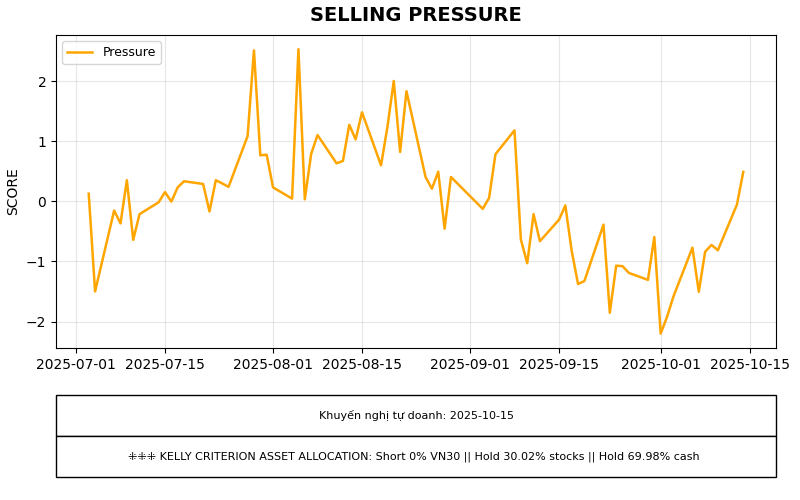
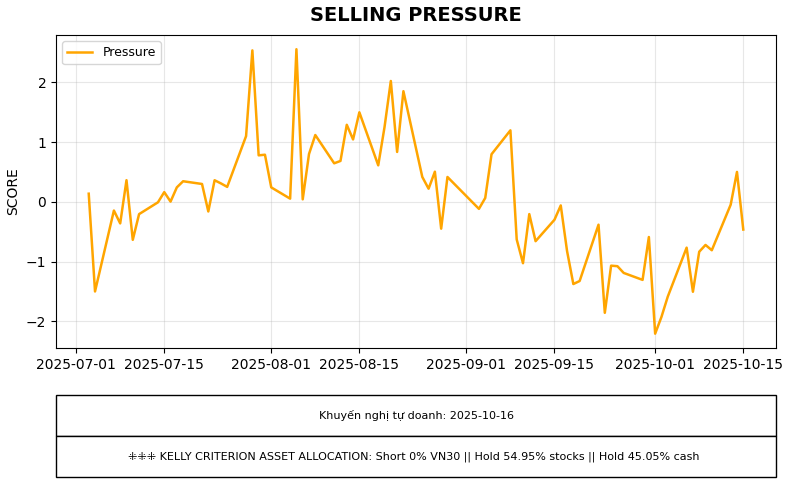
16-10

diff --git a/backtesting/strategy.py b/backtesting/strategy.py
@@ -1,0 +1,92 @@
+# import pandas as pd
+# import numpy as np
+# from get_data import get_symbol_data, calculate_drawdown, portfolio_returns, sharpe_ratio, calculate_volatility
+# import matplotlib.pyplot as plt
+
+# start_date = "2022-07-03"
+# end_date = "2025-10-01"
+
+# def moving_average(data, window_size):
+#     return pd.Series(data).rolling(window=window_size).mean()
+
+# vnindex = get_symbol_data("VNINDEX", start_date, end_date)["VNINDEX"]
+# ma_50 = moving_average(vnindex, 50)
+# spread = vnindex - ma_50
+# z_score = (spread - spread.mean()) / spread.std()
+# max_zscore = z_score.max()
+# min_zscore = z_score.min()
+# new_zscore = (z_score - min_zscore)
+# new_min = new_zscore.min()
+# new_max = new_zscore.max()
+# cash_allocation = (new_zscore / new_max)
+# asset_allocation = (1 - cash_allocation)
+# # cash
+# # # # a = vnindex["VNINDEX"]
+# # # # b, max_dd = calculate_drawdown(a)
+# # # print(vnindex)
+# # # print(ma_50)
+# # print(spread)
+# # print(z_score)
+
+# # Plot
+# plt.figure(figsize=(10, 5))
+# plt.plot(asset_allocation, marker='o', linestyle='-', linewidth=1.5)
+# plt.title('VNINDEX Series Over Time')
+# plt.xlabel('Index')
+# plt.ylabel('Value')
+# plt.grid(True)
+# plt.show()
+# # print(b)
+
+import pandas as pd
+import numpy as np
+from get_data import get_symbol_data
+import matplotlib.pyplot as plt
+
+start_date = "2022-07-03"
+end_date = "2025-10-01"
+
+def moving_average(data, window_size):
+    return pd.Series(data).rolling(window=window_size).mean()
+
+# === Data ===
+vnindex_df = get_symbol_data("VNINDEX", start_date, end_date)
+vnindex = get_symbol_data("VNINDEX", start_date, end_date)["VNINDEX"]
+ma_50 = moving_average(vnindex, 50)
+
+spread = vnindex - ma_50
+z_score = (spread - spread.mean()) / spread.std()
+
+vnindex_df["sign"] = spread.apply(lambda x: 1 if x > 0 else (-1 if x < 0 else 0))
+vnindex_df["cross"] = vnindex_df["sign"].diff().fillna(0).ne(0)
+cross_point = vnindex_df[vnindex_df["cross"]]
+# Normalization for allocation
+max_zscore = z_score.max()
+min_zscore = z_score.min()
+new_zscore = z_score - min_zscore
+cash_allocation = new_zscore / new_zscore.max()
+asset_allocation = 1 - cash_allocation
+
+print(vnindex_df)
+print(cross_point)
+# # === Plot ===
+# fig, axes = plt.subplots(2, 1, figsize=(12, 8), sharex=True)
+
+# # Top chart: VNINDEX + MA50
+# axes[0].plot(vnindex.index, vnindex, label='VNINDEX', color='blue', linewidth=1.5)
+# axes[0].plot(ma_50.index, ma_50, label='MA 50', color='orange', linestyle='--', linewidth=1.2)
+# axes[0].set_title('VNINDEX vs 50-day Moving Average')
+# axes[0].set_ylabel('Index Value')
+# axes[0].legend()
+# axes[0].grid(True)
+
+# # Bottom chart: Asset Allocation
+# axes[1].plot(asset_allocation.index, asset_allocation, label='Asset Allocation', color='green', linewidth=1.5)
+# axes[1].set_title('Stock allocation overtime')
+# axes[1].set_xlabel('Date')
+# axes[1].set_ylabel('Allocation (0–1)')
+# axes[1].legend()
+# axes[1].grid(True)
+
+# plt.tight_layout()
+# plt.show()

diff --git a/backtesting/get_data.py b/backtesting/get_data.py
@@ -1,0 +1,71 @@
+from vnstock_data import Quote
+import pandas as pd
+import matplotlib.pyplot as plt
+
+
+
+def get_symbol_data(symbol: str, start_date: str, end_date: str) -> pd.DataFrame:
+    quote = Quote(source='vnd', symbol=symbol)
+    df = quote.history(start=start_date, end=end_date, interval="1D")
+    
+    if df is None or df.empty:
+        raise ValueError(f"No data found for symbol: {symbol}")
+    
+    df = df[["time", "close"]].copy()
+    df.rename(columns={"close": symbol}, inplace=True)
+    
+    return df
+
+def calculate_drawdown(series: pd.Series) -> pd.Series:
+    """Calculate the drawdown of a time series."""
+    pct_change = series.pct_change().fillna(0)
+    positive = pct_change
+    # Make the new series
+    result = []
+    current_val = 0
+
+    for val in positive:
+        if val > 0:
+            current_val = 0   # reset to zero when s1 > 0
+        else:
+            current_val = val  # keep the negative or zero values
+        result.append(current_val)
+
+    drawdown = pd.Series(result, name="filtered_VNINDEX")
+    # print(drawdown)
+    max_drawdown = drawdown.max()
+    return drawdown, max_drawdown
+
+def portfolio_returns(series: pd.Series, threshold: float = 0.02) -> pd.Series:
+    """Calculate portfolio returns based on drawdown threshold."""
+    first_day = series.iloc[0]
+    last_day = series.iloc[-1]
+    total_return = (last_day - first_day) / first_day
+    daily_return = total_return / len(series)
+    weekly_return = daily_return * 5
+    monthly_return = daily_return * 22
+    return total_return, daily_return, weekly_return, monthly_return
+
+def sharpe_ratio(returns: pd.Series, risk_free_rate: float = 0.01) -> float:
+    """Calculate the Sharpe ratio of a returns series."""
+    excess_returns = returns - risk_free_rate / 252  # Assuming 252 trading days
+    return excess_returns.mean() / excess_returns.std() * (252 ** 0.5)
+
+def calculate_volatility(series: pd.Series) -> float:
+    """Calculate the annualized volatility of a returns series."""
+    std = series.std()
+    return std
+
+# a = get_symbol_data("VNINDEX")
+# b = calculate_drawdown(a["VNINDEX"])[0]
+# # print(b)
+
+# # Plot
+# plt.figure(figsize=(10, 5))
+# plt.plot(b, marker='o', linestyle='-', linewidth=1.5)
+# plt.title('VNINDEX Series Over Time')
+# plt.xlabel('Index')
+# plt.ylabel('Value')
+# plt.grid(True)
+# plt.show()
+# # print(b)

diff --git a/weighting/index_constructor.py b/weighting/index_constructor.py
@@ -3,6 +3,7 @@ from vnstock_data import Trading, Quote
 import pandas as pd
 from datetime import date, timedelta
 from tqdm import tqdm
+import time
 
 today = date.today() 
 start_date = "2025-07-03"
@@ -48,6 +49,7 @@ def get_allshare_index(symbols: list[str], start_date: str = {start_date}) -> pd
             sector_df = df
         else:
             sector_df = pd.merge(sector_df, df, on="time", how="outer")
+        time.sleep(0.22)  # To avoid hitting API rate limits
 
     if sector_df is not None:
 

diff --git a/backtesting/realized.py b/backtesting/realized.py
@@ -1,0 +1,10 @@
+""" After taking profit """
+
+- Return
+- Sharpe ratio
+- Volatility
+- R-squared root cause
+- Portfolio value
+- Over/under benchmark ratio
+- Return/drawdown: > 1 = good, < 1 = bad
+

diff --git a/backtesting/unrelized.py b/backtesting/unrelized.py
@@ -1,0 +1,5 @@
+""" Before taking profit """
+
+- Maximum drawdown
+- Drawdown period
+- Volatility
